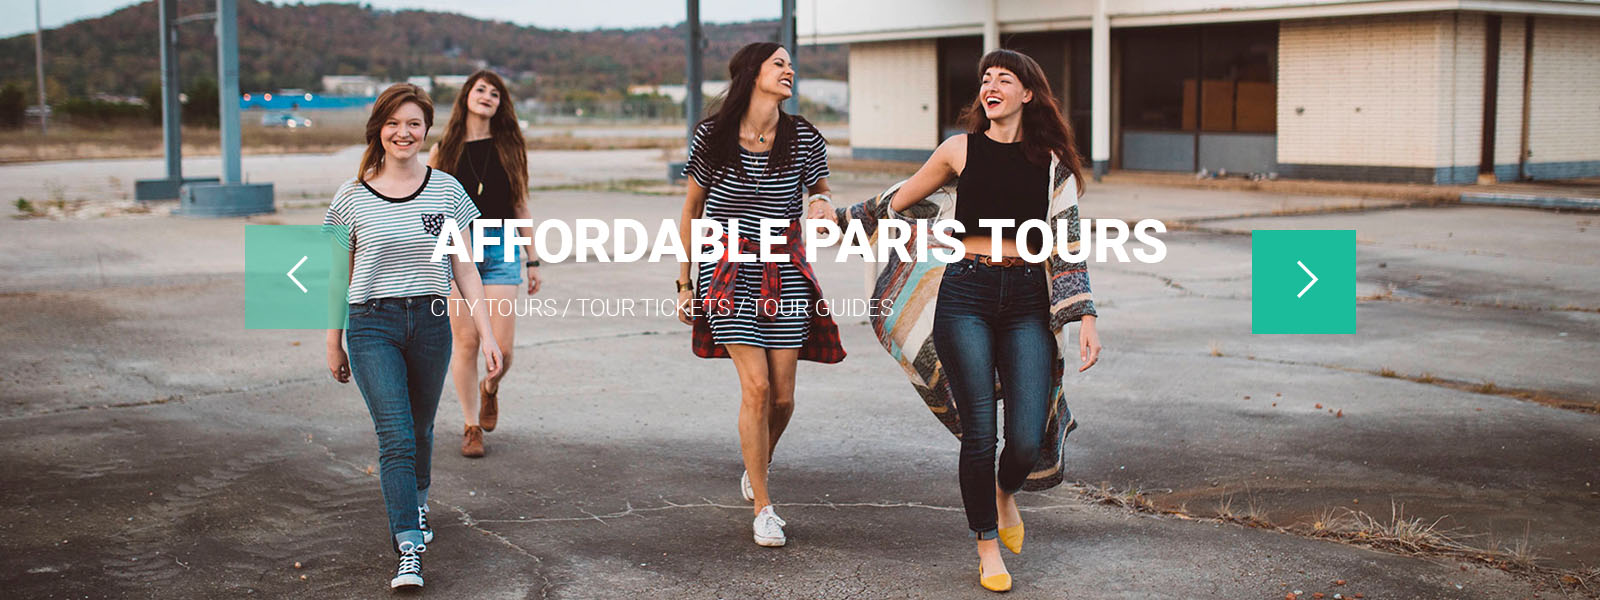
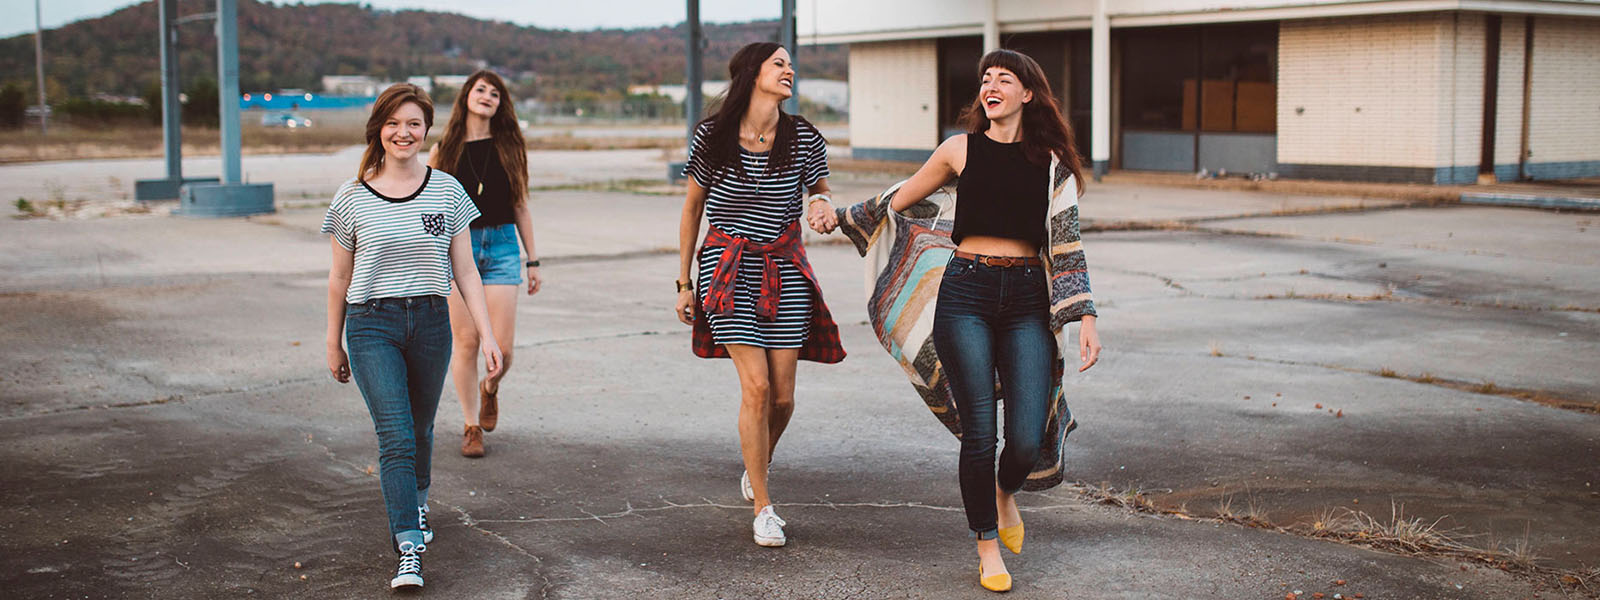
new

diff --git a/html-css/module-05/homework-05/index.html b/html-css/module-05/homework-05/index.html
@@ -16,15 +16,34 @@
                 <a href="#" class="logo">
                     <p class="logo">mart</p>
                 </a>
+
+
                 <nav class="header-nav">
                     <ul class="nav-list">
-                        <li class="nav-list_item"><a href="#" class="nav-link">home</a></li>
-                        <li class="nav-list_item"><a href="#" class="nav-link">about us</a></li>
-                        <li class="nav-list_item"><a href="#" class="nav-link">page</a></li>
-                        <li class="nav-list_item"><a href="#" class="nav-link">shop</a></li>
-                        <li class="nav-list_item"><a href="#" class="nav-link">blog</a></li>
-                        <li class="nav-list_item"><a href="#" class="nav-link">contact us</a></li>
+                        <li class="nav-list_item">
+                            <a href="#" class="nav-link">home</a>
+                        </li>
+                        <li class="nav-list_item">
+                            <a href="#" class="nav-link">about us</a>
+                        </li>
+                        <li class="nav-list_item">
+                            <a href="#" class="nav-link">page</a>
+                        </li>
+                        <li class="nav-list_item">
+                            <a href="#" class="nav-link">shop</a>
+                        </li>
+                        <li class="nav-list_item">
+                            <a href="#" class="nav-link">blog</a>
+                        </li>
+                        <li class="nav-list_item">
+                            <a href="#" class="nav-link">contact us</a>
+                        </li>
                     </ul>
-                </nav>
+                </nav>       
             </header>
         </div>
+
+        <div class="banner">
+                <img src="./img/banner.jpg" alt="banner" width="1600" height="580" >
+            </div>  
+    </div>     
